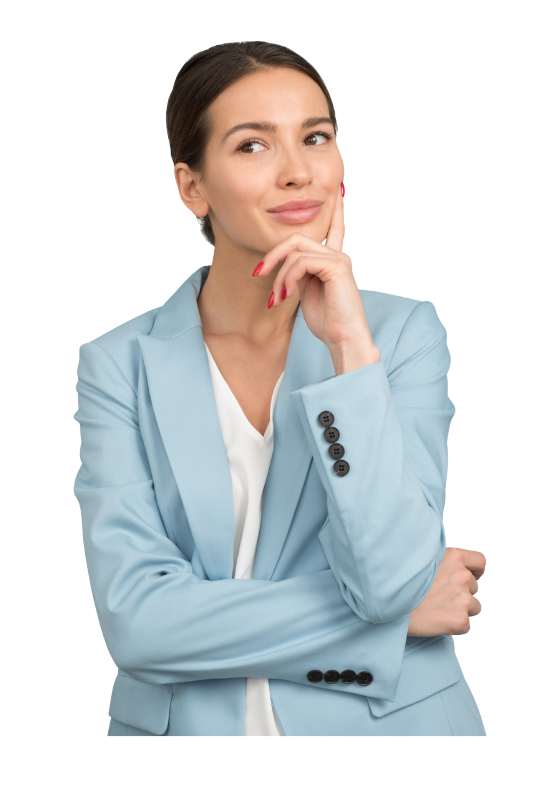
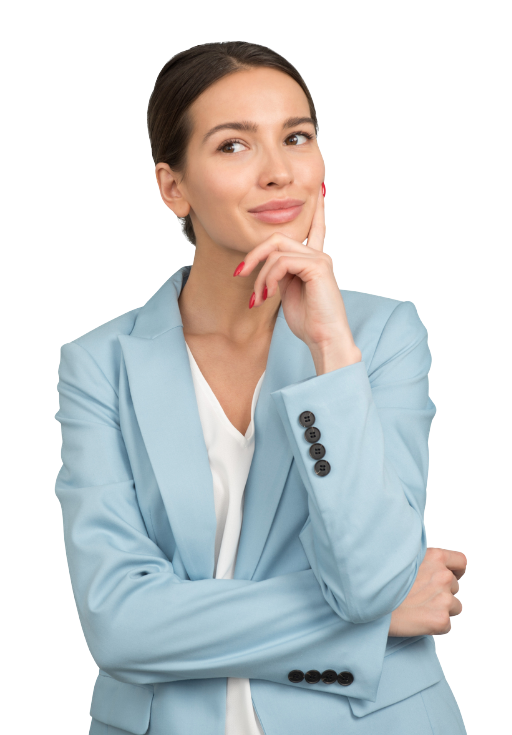
Newsletter_Changes

diff --git a/src/components/Hero/Hero.jsx b/src/components/Hero/Hero.jsx
@@ -16,7 +16,7 @@ const Hero = () => {
                 <div className="image-container mt-5">
                     <img src={heroone}
                       className="hero-one mt-3" alt="" />
-                <h1 className='overlay-text'>Empowering Your Workforce Needs Connecting Talent with Opportunity
+                <h1 className='overlay-text'>Empowering Your Workforce Needs, Connecting Talent with Opportunity.
             </h1>
                 </div>
             </div>

diff --git a/src/components/Newsletter/newsletter.css b/src/components/Newsletter/newsletter.css
@@ -25,8 +25,8 @@
 
   .newsletter {
 
-    height: 430px;
-    width: 406px;
+    height: 460px;
+    width: 380px;
     border: 1px solid #85756A;
     border-radius: 10px;
 

diff --git a/src/components/Hero/hero.css b/src/components/Hero/hero.css
@@ -18,6 +18,7 @@
   border-radius: 10px;
   height: 500px;
   width: 400px;
+  margin-top: 100px;
 }
 
 .hero-two {
